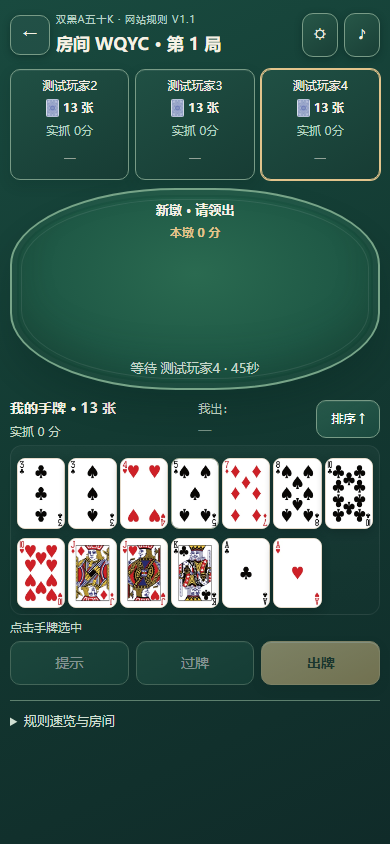
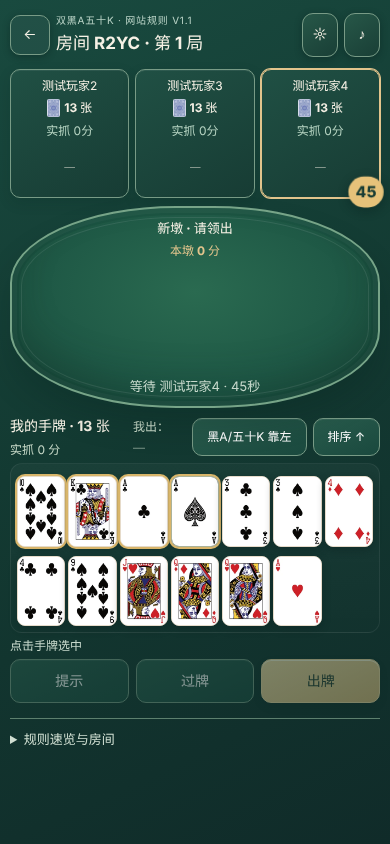
feat(ba): team early end, grouped hand sort, larger recent plays, turn timer
Claude-Session: https://claude.ai/code/session_01D4YgyroqgNAkz3QuETaoWS

diff --git a/apps/web/src/ba/BlackA.tsx b/apps/web/src/ba/BlackA.tsx
@@ -9,23 +9,25 @@ const suitSymbol:Record<string,string>={D:'♦',C:'♣',H:'♥',S:'♠'};
 const cardName=(id:string)=>id.slice(0,-1)+suitSymbol[id.slice(-1)];
 const order=(a:string,b:string)=>RANKS.indexOf(a.slice(0,-1) as typeof RANKS[number])-RANKS.indexOf(b.slice(0,-1) as typeof RANKS[number])||SUITS.indexOf(a.slice(-1) as typeof SUITS[number])-SUITS.indexOf(b.slice(-1) as typeof SUITS[number]);
 const typeName:Record<string,string>={SINGLE:'单牌',PAIR:'对子',STRAIGHT:'顺子',PAIR_RUN:'连对',TRIPLE_SINGLE:'三带一',TRIPLE_PAIR:'三带二',FOUR_TWO:'四带二',BLACK_A:'单黑A',MIXED_510K:'杂五十K',PURE_510K:'纯五十K',BOMB:'炸弹',DOUBLE_BLACK_A:'双黑A'};
+/** Black A and the 5/10/K point cards (the pieces of 五十K) can be pulled to the front of the hand. */
+const isSpecial=(id:string)=>id==='AS'||id==='AC'||['5','10','K'].includes(id.slice(0,-1));
+const savedGroup=()=>{try{return localStorage.getItem('ba-sort-group')!=='off'}catch{return true}};
+const sortHand=(list:string[],descending:boolean,group:boolean)=>{list.sort(order);if(descending)list.reverse();if(!group)return list;return [...list.filter(isSpecial),...list.filter(id=>!isSpecial(id))]};
 const savedTheme=()=>{try{return localStorage.getItem('ba-theme')==='light'?'light':'dark'}catch{return 'dark'}};
 function useBATheme(){const [theme,setTheme]=useState<'dark'|'light'>(savedTheme);const toggle=()=>setTheme(current=>{const next=current==='dark'?'light':'dark';try{localStorage.setItem('ba-theme',next)}catch{}return next});return {theme,toggle}}
-function Card({id,selected=false,drawn=false,onClick}: {id:string;selected?:boolean;drawn?:boolean;onClick?:()=>void}){return <button type="button" className={`ba-card ${selected?'ba-selected':''} ${drawn?'ba-card-drawn':''}`} aria-label={cardName(id)} aria-pressed={selected} onClick={onClick} disabled={!onClick}><img src={`/assets/black-a-510k/cards/${id}.webp`} alt="" draggable={false}/>{drawn&&<span className="ba-drawn-tag">抽到</span>}</button>}
+function Card({id,selected=false,drawn=false,special=false,onClick}: {id:string;selected?:boolean;drawn?:boolean;special?:boolean;onClick?:()=>void}){return <button type="button" className={`ba-card ${selected?'ba-selected':''} ${drawn?'ba-card-drawn':''} ${special?'ba-card-special':''}`} aria-label={cardName(id)} aria-pressed={selected} onClick={onClick} disabled={!onClick}><img src={`/assets/black-a-510k/cards/${id}.webp`} alt="" draggable={false}/>{drawn&&<span className="ba-drawn-tag">抽到</span>}</button>}
 function MiniCard({id}:{id:string}){return <span className="ba-mini-card" aria-label={cardName(id)}><img src={`/assets/black-a-510k/cards/${id}.webp`} alt={cardName(id)} draggable={false}/></span>}
 function RecentPlayBadge({play}:{play:{kind:'PLAY';cards:string[]}|{kind:'PASS'}|null|undefined}){
   if(!play)return <span className="ba-recent-empty">—</span>;
   if(play.kind==='PASS')return <span className="ba-pass-badge">过</span>;
   return <div className="ba-recent-cards">{play.cards.map(id=><MiniCard key={id} id={id}/>)}</div>;
 }
-function Hand({cards,drawnIds,selected,onToggle,descending}: {cards:string[];drawnIds?:string[]|null;selected:string[];onToggle?:(id:string)=>void;descending:boolean}){
+function Hand({cards,drawnIds,selected,onToggle,descending,group}: {cards:string[];drawnIds?:string[]|null;selected:string[];onToggle?:(id:string)=>void;descending:boolean;group:boolean}){
   const drawnSet=useMemo(()=>new Set(drawnIds??[]),[drawnIds]);
   const mainCards=useMemo(()=>{
     const list=drawnSet.size?cards.filter(id=>!drawnSet.has(id)):[...cards];
-    list.sort(order);
-    if(descending)list.reverse();
-    return list;
-  },[cards,drawnSet,descending]);
+    return sortHand(list,descending,group);
+  },[cards,drawnSet,descending,group]);
   const drawnCards=useMemo(()=>{
     if(!drawnIds?.length)return [];
     const list=cards.filter(id=>drawnSet.has(id));
@@ -34,7 +36,7 @@ function Hand({cards,drawnIds,selected,onToggle,descending}: {cards:string[];dra
     return list;
   },[cards,drawnIds,drawnSet,descending]);
   return <div className="ba-hand-wrap">
-    <div className="ba-hand" aria-label="我的手牌">{mainCards.map(id=><Card key={id} id={id} selected={selected.includes(id)} onClick={onToggle?()=>onToggle(id):undefined}/>)}</div>
+    <div className="ba-hand" aria-label="我的手牌">{mainCards.map(id=><Card key={id} id={id} special={group&&isSpecial(id)} selected={selected.includes(id)} onClick={onToggle?()=>onToggle(id):undefined}/>)}</div>
     {drawnCards.length>0&&<div className="ba-hand-drawn" aria-label="抽到的牌"><span className="ba-drawn-row-label">抽到 {drawnCards.length} 张</span><div className="ba-hand-drawn-cards">{drawnCards.map(id=><Card key={id} id={id} drawn selected={selected.includes(id)} onClick={onToggle?()=>onToggle(id):undefined}/>)}</div></div>}
   </div>;
 }
@@ -45,12 +47,14 @@ function Lobby({snap,claim,ready,configure,addBot,kick}: {snap:BASnapshot;claim:
   return <div className="ba-lobby"><div className="ba-lobby-head"><span>四人房间</span><strong>{snap.code}</strong><button onClick={()=>navigator.clipboard.writeText(location.href)}>复制邀请链接</button></div><p className="ba-note">本站房规 V1.1 · 四人各13张 · 隐藏阵营 · 分牌共100分</p><div className="ba-seats">{[0,1,2,3].map(i=>{const p=snap.players[i];return <div key={i} className="ba-seat-row"><span>{i+1}号位</span><strong>{p?.name??'等待加入'}{p?.bot?' · 人机':''}</strong><span>{p?p.bot?'待命':p.ready?'已准备':p.online?'在线':'离线':'空位'}</span>{isHost&&p&&p.id!==me?.id&&snap.roundId===0&&<KickButton name={p.name} onKick={()=>void run(kick(p.id))}/>}</div>})}</div>{isHost&&snap.roundId===0&&snap.players.length<4&&<button className="ba-add-bot" onClick={()=>void run(addBot())}>＋ 加入人机</button>}{self===null?<form onSubmit={e=>{e.preventDefault();void run(claim(name))}}><label>你的名字<input value={name} maxLength={16} onChange={e=>setName(e.target.value)} placeholder="输入昵称"/></label><button className="ba-primary" disabled={!name.trim()||snap.players.length>=4}>入座</button></form>:<button className="ba-primary" onClick={()=>void run(ready(!me!.ready))}>{me!.ready?'取消准备':'准备开局'}</button>}
   <section className="ba-rules"><h2>本房房规</h2><label>第一手<select disabled={!isHost||snap.roundId>0} value={snap.options.firstLead} onChange={e=>void run(configure({firstLead:e.target.value as BASnapshot['options']['firstLead']}))}><option value="CONTAINS_D3">必须包含 ♦3</option><option value="OWNER_ANY">♦3 持有者任意首出</option></select></label><label>独狼得分<select disabled={!isHost||snap.roundId>0} value={snap.options.soloScoreBasis} onChange={e=>void run(configure({soloScoreBasis:e.target.value as BASnapshot['options']['soloScoreBasis']}))}><option value="FINAL">最终分达到30</option><option value="BASE">基础分达到30</option></select></label><label>出牌倒计时<select disabled={!isHost||snap.roundId>0} value={snap.options.turnSeconds} onChange={e=>void run(configure({turnSeconds:Number(e.target.value) as BASnapshot['options']['turnSeconds']}))}>{[0,15,30,45,60].map(n=><option key={n} value={n}>{n?n+'秒':'关闭'}</option>)}</select></label><label><input type="checkbox" disabled={!isHost||snap.roundId>0} checked={snap.options.advanceExchange} onChange={e=>void run(configure({advanceExchange:e.target.checked}))}/> 连续局抽牌交换</label></section>{error&&<p role="alert" className="ba-error">{error}</p>}</div>
 }
-function Result({snap,ready}: {snap:BASnapshot;ready:(v:boolean)=>Promise<string|null>}){const [error,setError]=useState(''),[busy,setBusy]=useState(false);const result=snap.round?.result;if(!result)return null;const black=result.blackTeam,other=result.otherTeam;const teamScore=(ids:readonly number[])=>ids.reduce((n,id)=>n+result.ledger[id].finalScore,0);const loserIndex=result.winningTeam==='BLACK_A'?1:0;const shaved=result.shavedPenalty[loserIndex];return <section className="ba-result"><span className="ba-eyebrow">本局结算 · 第 {snap.roundId} 局</span><h2>{result.winningTeam==='BLACK_A'?'黑A队获胜':'普通队获胜'}</h2><div className="ba-team-scores"><div>黑A队<strong>{teamScore(black)}</strong></div><div>普通队<strong>{teamScore(other)}</strong></div></div><p>胜负依据：{result.reason==='BLACK_LEAD_30'?'黑A队领先至少30分':result.reason==='OTHER_HOLDS'?'黑A队未领先30分':result.reason==='SOLO_30'?'独狼达到30分且非末游':'独狼未满足获胜条件'}</p><div className="ba-ledger"><div className="ba-ledger-head"><span>玩家</span><span>实抓</span><span>余牌</span><span>转移</span><span>最终</span></div>{result.ledger.map((x,i)=><div key={i}><span>{snap.players[i]?.name} · {black.includes(i)?'黑A':'普通'} · 第{snap.round?.finishedOrder.indexOf(i)!+1}名</span><span>{x.capturedScore}</span><span>{x.remainderScore}</span><span>{x.transferIn-x.transferOut>0?'+':''}{x.transferIn-x.transferOut}</span><strong>{x.finalScore}</strong></div>)}</div><div className="ba-result-audit"><p>最后一墩归三游 {snap.players[snap.round?.finishedOrder[2]??2]?.name}；末游余牌归 {snap.players[result.remainderRecipient]?.name}。</p><p>败方实抓 {result.teamZeroCaptured[loserIndex]?"0 分":"有分"}；基础 {result.teamZeroBase[loserIndex]?"0 分":"有分"}。{shaved?"本局被剃光头，下局每笔抽 4 张。":snap.options.advanceExchange?"下局每笔抽 2 张。":"本房关闭跨局交换。"}</p><p>基础总分 100；头游收 30，末游缴 30。{black.length===1?`独狼门槛按${snap.options.soloScoreBasis==='BASE'?'基础分':'最终分'}计算。`:""}</p></div>{snap.self===null?<p className="ba-note">正在观战，等待四位玩家开启下一局。</p>:<button className="ba-result-next" disabled={busy||snap.players[snap.self]?.ready} onClick={async()=>{setBusy(true);const nextError=await ready(true);setBusy(false);setError(nextError??'')}}>{snap.players[snap.self]?.ready?"已准备，等待其他玩家":"准备下一局"}</button>}{error&&<p role="alert" className="ba-error">{error}</p>}</section>}
+function Result({snap,ready}: {snap:BASnapshot;ready:(v:boolean)=>Promise<string|null>}){const [error,setError]=useState(''),[busy,setBusy]=useState(false);const result=snap.round?.result;if(!result)return null;const black=result.blackTeam,other=result.otherTeam;const teamScore=(ids:readonly number[])=>ids.reduce((n,id)=>n+result.ledger[id].finalScore,0);const loserIndex=result.winningTeam==='BLACK_A'?1:0;const shaved=result.shavedPenalty[loserIndex];return <section className="ba-result"><span className="ba-eyebrow">本局结算 · 第 {snap.roundId} 局</span><h2>{result.winningTeam==='BLACK_A'?'黑A队获胜':'普通队获胜'}</h2><div className="ba-team-scores"><div>黑A队<strong>{teamScore(black)}</strong></div><div>普通队<strong>{teamScore(other)}</strong></div></div><p>胜负依据：{result.reason==='BLACK_LEAD_30'?'黑A队领先至少30分':result.reason==='OTHER_HOLDS'?'黑A队未领先30分':result.reason==='SOLO_30'?'独狼达到30分且非末游':'独狼未满足获胜条件'}</p><div className="ba-ledger"><div className="ba-ledger-head"><span>玩家</span><span>实抓</span><span>余牌</span><span>转移</span><span>最终</span></div>{result.ledger.map((x,i)=><div key={i}><span>{snap.players[i]?.name} · {black.includes(i)?'黑A':'普通'} · 第{snap.round?.finishedOrder.indexOf(i)!+1}名</span><span>{x.capturedScore}</span><span>{x.remainderScore}</span><span>{x.transferIn-x.transferOut>0?'+':''}{x.transferIn-x.transferOut}</span><strong>{x.finalScore}</strong></div>)}</div><div className="ba-result-audit">{result.earlyEnd?<p>同队两人都已出完，本局立即结束。最后一墩归 {snap.players[snap.round?.finishedOrder[1]??0]?.name}；{(result.remainderRecipients??[]).map(r=>`${snap.players[r.from]?.name}的余牌${r.to===r.from?'压得过，归自己':`压不过，归 ${snap.players[r.to]?.name}`}`).join('；')}。末游按剩余牌数判定（剩得多者为末游）。</p>:<p>最后一墩归三游 {snap.players[snap.round?.finishedOrder[2]??2]?.name}；末游余牌归 {snap.players[result.remainderRecipient]?.name}。</p>}<p>败方实抓 {result.teamZeroCaptured[loserIndex]?"0 分":"有分"}；基础 {result.teamZeroBase[loserIndex]?"0 分":"有分"}。{shaved?"本局被剃光头，下局每笔抽 4 张。":snap.options.advanceExchange?"下局每笔抽 2 张。":"本房关闭跨局交换。"}</p><p>基础总分 100；头游收 30，末游缴 30。{black.length===1?`独狼门槛按${snap.options.soloScoreBasis==='BASE'?'基础分':'最终分'}计算。`:""}</p></div>{snap.self===null?<p className="ba-note">正在观战，等待四位玩家开启下一局。</p>:<button className="ba-result-next" disabled={busy||snap.players[snap.self]?.ready} onClick={async()=>{setBusy(true);const nextError=await ready(true);setBusy(false);setError(nextError??'')}}>{snap.players[snap.self]?.ready?"已准备，等待其他玩家":"准备下一局"}</button>}{error&&<p role="alert" className="ba-error">{error}</p>}</section>}
 function GameRoom({code}:{code:string}){
   const {theme,toggle:toggleTheme}=useBATheme();
   const {snap,error,connected,claim,ready,configure,addBot,kick,action,leave}=useBARoom(code);
-  const [selected,setSelected]=useState<string[]>([]),[drawIndices,setDrawIndices]=useState<number[]>([]),[descending,setDescending]=useState(false),[busy,setBusy]=useState(false),[localError,setLocalError]=useState(''),[seconds,setSeconds]=useState(0),[hintIndex,setHintIndex]=useState(0),[soundOn,setSoundOn]=useState(soundEnabled());
+  const [selected,setSelected]=useState<string[]>([]),[drawIndices,setDrawIndices]=useState<number[]>([]),[descending,setDescending]=useState(false),[group,setGroup]=useState(savedGroup),[busy,setBusy]=useState(false),[localError,setLocalError]=useState(''),[seconds,setSeconds]=useState(0),[hintIndex,setHintIndex]=useState(0),[soundOn,setSoundOn]=useState(soundEnabled());
   const previous=useRef<BASnapshot|null>(null);
+  const toggleGroup=()=>setGroup(v=>{const next=!v;try{localStorage.setItem('ba-sort-group',next?'on':'off')}catch{}return next});
+  const sortButtons=<span className="ba-sort-buttons"><button onClick={toggleGroup} aria-pressed={group}>{group?'黑A/五十K 靠左':'按大小排'}</button><button onClick={()=>setDescending(v=>!v)}>排序 {descending?'↓':'↑'}</button></span>;
   useEffect(()=>{const unlock=()=>unlockSound();document.addEventListener('pointerdown',unlock);return()=>document.removeEventListener('pointerdown',unlock)},[]);
   useEffect(()=>{
     if(!snap)return;const old=previous.current;previous.current=snap;if(!old||old.code!==snap.code||!soundOn)return;
@@ -81,12 +85,13 @@ function GameRoom({code}:{code:string}){
   const exchangeLogs=snap?.exchangeLogs?.length?snap.exchangeLogs:exchange?.logs??[];
   if(!snap)return <main className="ba-app"><a href="/">← 游戏大厅</a><p>{error||'正在连接房间…'}</p></main>;
   return <main className={`ba-app ba-theme-${theme}`}><header className="ba-top"><a href="/" aria-label="返回游戏大厅">←</a><div><small>双黑A五十K · 网站规则 V1.1</small><strong>房间 {snap.code} · 第 {snap.roundId||1} 局</strong></div><button className="ba-theme-toggle" aria-label={theme==='dark'?'切换明亮配色':'切换深绿配色'} onClick={toggleTheme}>{theme==='dark'?'☼':'☾'}</button><button className="ba-sound-toggle" aria-label={soundOn?'关闭音效':'开启音效'} aria-pressed={soundOn} onClick={()=>{const next=!soundOn;setSoundOn(next);setSoundEnabled(next);unlockSound()}}>{soundOn?'♪':'♪̸'}</button><span>{connected?'● 在线':'○ 重连中'}</span></header>{snap.phase==='LOBBY'?<Lobby snap={snap} claim={claim} ready={ready} configure={configure} addBot={addBot} kick={kick}/>:snap.phase==='RESULT'?<Result snap={snap} ready={ready}/>:<>
-    <div className="ba-opponents">{snap.players.filter(p=>p.seat!==self).map(p=><div key={p.id} className={`ba-opponent ${round?.currentActor===p.seat?'ba-turn':''}`}><span>{p.name}</span><strong><img src="/assets/black-a-510k/cards/back.webp" alt=""/> {snap.phase==='EXCHANGE'?exchange?.handCounts[p.seat]:round?.handCounts[p.seat]} 张</strong><small>实抓 {round?.capturedScores[p.seat]??0}分</small>{snap.phase==='PLAY'&&round&&<div className="ba-opponent-recent"><RecentPlayBadge play={round.recentPlays?.[p.seat]}/></div>}</div>)}</div>
+    <div className="ba-opponents">{snap.players.filter(p=>p.seat!==self).map(p=><div key={p.id} className={`ba-opponent ${round?.currentActor===p.seat?'ba-turn':''}`}>{snap.phase==='PLAY'&&round?.currentActor===p.seat&&<span className={`ba-clock ${snap.deadline&&seconds<=10?'ba-clock-urgent':''}`} aria-label="正在出牌">{snap.deadline?seconds:'出牌中'}</span>}<span>{p.name}</span><strong><img src="/assets/black-a-510k/cards/back.webp" alt=""/> {snap.phase==='EXCHANGE'?exchange?.handCounts[p.seat]:round?.handCounts[p.seat]} 张</strong><small>实抓 {round?.capturedScores[p.seat]??0}分</small>{snap.phase==='PLAY'&&round&&<div className="ba-opponent-recent"><RecentPlayBadge play={round.recentPlays?.[p.seat]}/></div>}</div>)}</div>
     {snap.phase==='PLAY'&&round?<>
       {exchangeLogs.length>0&&round.trickId<=2&&<div className="ba-exchange-logs">{exchangeLogs.map((log,i)=><div key={i} className="ba-exchange-log-row"><span>{snap.players[log.winner]?.name} ↔ {snap.players[log.loser]?.name}：</span>{log.drawn?<><span>抽</span>{log.drawn.map(id=><MiniCard key={'d'+id} id={id}/>)}{log.returned&&log.returned.length>0&&<><span>还</span>{log.returned.map(id=><MiniCard key={'r'+id} id={id}/>)}</>}</>:<span>抽 {log.drawnCount} 张、还 {log.returnedCount} 张</span>}</div>)}</div>}
       <div className="ba-table"><div className="ba-table-label">{round.lastPlay?`${snap.players[round.lastPlay.actor]?.name} · ${typeName[classify(round.lastPlay.cards)?.type??'']??'出牌'}`:'新墩 · 请领出'}<span>本墩 {round.tableScore} 分</span></div><div className="ba-table-cards">{(round.lastPlay?.cards??[]).map(id=><Card key={id} id={id}/>)}</div><div className="ba-table-foot">{canPlay?'轮到你出牌':`等待 ${snap.players[round.currentActor??0]?.name??'结算'}`}{snap.deadline?` · ${seconds}秒`:''}</div></div>
-      <div className="ba-self"><div><strong>我的手牌 · {hand?.length??0} 张</strong><span>实抓 {self===null?0:round.capturedScores[self]} 分</span></div>{self!==null&&<div className="ba-self-recent"><span>我出：</span><RecentPlayBadge play={round.recentPlays?.[self]}/></div>}<button onClick={()=>setDescending(v=>!v)}>排序 {descending?'↓':'↑'}</button></div>
-      <Hand cards={hand??[]} selected={selected} onToggle={toggle} descending={descending}/>
+      <div className="ba-self"><div><strong>我的手牌 · {hand?.length??0} 张</strong><span>实抓 {self===null?0:round.capturedScores[self]} 分</span></div>{self!==null&&<div className="ba-self-recent"><span>我出：</span><RecentPlayBadge play={round.recentPlays?.[self]}/></div>}{sortButtons}</div>
+      {canPlay&&<div className={`ba-your-turn ${snap.deadline&&seconds<=10?'ba-clock-urgent':''}`} role="status">轮到你出牌{snap.deadline?<strong>{seconds}</strong>:null}</div>}
+      <Hand cards={hand??[]} selected={selected} onToggle={toggle} descending={descending} group={group}/>
       <div className="ba-selection">{selected.length?`${selected.length}张 · ${play?typeName[play.type]:'非法组合'} · ${legal?'可出':mustD3&&!selected.includes('3D')?'首手需包含♦3':'不可压当前牌'}`:'点击手牌选中'}</div>
       <div className="ba-actions"><button disabled={!canPlay||busy||!hints.length} onClick={()=>{const next=hints[hintIndex%hints.length];setSelected(next);setHintIndex(i=>i+1)}}>提示</button><button disabled={!canPlay||busy||!round.lastPlay} onClick={()=>void submit({kind:'PASS'})}>过牌</button><button className="ba-primary" disabled={!canPlay||busy||!legal} onClick={()=>void submit({kind:'PLAY',cards:selected})}>{busy?'提交中…':'出牌'}</button></div>
     </>:exchange?<>
@@ -100,16 +105,16 @@ function GameRoom({code}:{code:string}){
           <div className="ba-actions"><button onClick={()=>setDrawIndices([])}>取消选择</button><button className="ba-primary" disabled={busy||drawIndices.length!==exchange.drawCount} onClick={()=>void submit({kind:'DRAW',indices:drawIndices})}>{busy?'抽取中…':'确认抽牌'}</button></div>
         </>}
         {self!==exchange.pair?.winner&&<div className="ba-selection">等待对方抽牌 · 剩余 {seconds} 秒</div>}
-        <div className="ba-self"><strong>我的手牌 · {hand?.length??0} 张</strong><button onClick={()=>setDescending(v=>!v)}>排序 {descending?'↓':'↑'}</button></div>
-        <Hand cards={hand??[]} selected={[]} descending={descending}/>
+        <div className="ba-self"><strong>我的手牌 · {hand?.length??0} 张</strong>{sortButtons}</div>
+        <Hand cards={hand??[]} selected={[]} descending={descending} group={group}/>
       </>:<>
         <p className="ba-note">{self===exchange.pair?.winner?'请从手牌中选择准确数量归还，下方高亮为刚抽到的牌，可原样归还。':self===exchange.pair?.loser?'对方已完成抽牌，上方记录可查看被抽走的牌，等待对方归还。':'正在进行私密还牌，你只能看到公开进度。'}</p>
-        <div className="ba-self"><strong>我的手牌 · {hand?.length??0} 张</strong><button onClick={()=>setDescending(v=>!v)}>排序 {descending?'↓':'↑'}</button></div>
-        <Hand cards={hand??[]} drawnIds={self===exchange.pair?.winner?exchange.drawnIds:null} selected={self===exchange.pair?.winner?selected:[]} onToggle={self===exchange.pair?.winner?toggle:undefined} descending={descending}/>
+        <div className="ba-self"><strong>我的手牌 · {hand?.length??0} 张</strong>{sortButtons}</div>
+        <Hand cards={hand??[]} drawnIds={self===exchange.pair?.winner?exchange.drawnIds:null} selected={self===exchange.pair?.winner?selected:[]} onToggle={self===exchange.pair?.winner?toggle:undefined} descending={descending} group={group}/>
         <div className="ba-selection">已选择 {selected.length}/{exchange.returnCount??exchange.pair?.count??0} 张 · 剩余 {seconds} 秒</div>
         <div className="ba-actions"><button onClick={()=>setSelected([])}>取消选择</button><button className="ba-primary" disabled={self!==exchange.pair?.winner||busy||selected.length!==exchange.returnCount} onClick={()=>void submit({kind:'RETURN',cards:selected})}>确认归还</button></div>
       </>}
     </>:null}</>}
-  {(error||localError)&&<p role="alert" className="ba-error">{localError||error}</p>}<details className="ba-guide"><summary>规则速览与房间</summary><p>♦3持有者首出；5为5分，10和K各10分。普通牌需同型同张数压牌；单黑A、杂五十K、纯五十K、炸弹、双黑A依次更大。第三人出完立即结算，末游向头游缴30分。黑A队须领先30分；独狼须得30分且不能末游。</p>{self!==null&&<button className="ba-leave" onClick={()=>void leave()}>离开房间{snap.phase==='PLAY'?'（本局座位保留并托管）':''}</button>}</details></main>;
+  {(error||localError)&&<p role="alert" className="ba-error">{localError||error}</p>}<details className="ba-guide"><summary>规则速览与房间</summary><p>♦3持有者首出；5为5分，10和K各10分。普通牌需同型同张数压牌；单黑A、杂五十K、纯五十K、炸弹、双黑A依次更大。第三人出完立即结算；同队两人都先出完也立即结算，没出完的人压不过最后一手牌时，手中分牌归对方队。末游向头游缴30分。黑A队须领先30分；独狼须得30分且不能末游。</p>{self!==null&&<button className="ba-leave" onClick={()=>void leave()}>离开房间{snap.phase==='PLAY'?'（本局座位保留并托管）':''}</button>}</details></main>;
 }
 export function BlackA(){const code=new URLSearchParams(location.search).get('room')?.toUpperCase()??'';return code?<GameRoom code={code}/>:<RoomHome/>}

diff --git a/packages/black-a-510k/test/round.test.ts b/packages/black-a-510k/test/round.test.ts
@@ -73,18 +73,45 @@ describe('V1.1 turn state machine',()=>{
       {kind:'PASS',trickId:1},
     ]);
   });
-  it('T22: keeps playing when two teammates finish first and settles immediately when third finishes',()=>{
+  // House rule 2026-11-25: a two-player team that finishes both members ends the round at once.
+  function endgame(hands:string[][],finished:number[],owners:number[],actor:number,lastPlay:{actor:number;cards:string[]}){
     const full=createDeck().map(c=>c.id);
     const s=startRound([full.slice(0,13),full.slice(13,26),full.slice(26,39),full.slice(39,52)]);
-    s.hands=[[],['5D'],[],['KH','2S']];
-    s.capturedPiles=[full.filter(id=>!['5D','KH','2S','4S'].includes(id)),[],[],[]];
-    s.tableCards=['4S'];s.lastPlay={actor:2,cards:['4S']};s.finishedOrder=[0,2];
-    s.blackAOwners=[0,2];s.currentActor=1;s.firstLeadPending=false;s.trickId=9;
-    expect(s.phase).toBe('PLAY');
-    const settled=applyAction(s,{kind:'PLAY',actor:1,cards:['5D']});
+    const inPlay=new Set([...hands.flat(),...lastPlay.cards]);
+    s.hands=hands;s.capturedPiles=[full.filter(id=>!inPlay.has(id)),[],[],[]];
+    s.tableCards=[...lastPlay.cards];s.lastPlay=lastPlay;s.finishedOrder=finished;
+    s.blackAOwners=owners;s.currentActor=actor;s.firstLeadPending=false;s.trickId=9;
+    s.pendingResponders=[0,1,2,3].filter(id=>id!==lastPlay.actor&&hands[id].length>0);
+    return s;
+  }
+  it('T22: ends immediately when both teammates finish; unbeatable leftovers go to the last finisher',()=>{
+    // seat 0 (black) already out; seat 2 (black) plays its last card 2S, opponents hold 5D / KH 10C which cannot beat it.
+    const s=endgame([[],['5D','4C'],['2S'],['KH','10C']],[0],[0,2],2,{actor:1,cards:['4D']});
+    const settled=applyAction(s,{kind:'PLAY',actor:2,cards:['2S']});
     expect(settled.phase).toBe('RESULT');
-    expect(settled.finishedOrder).toEqual([0,2,1,3]);
-    expect(settled.result?.ledger[1].capturedScore).toBe(5);
-    expect(settled.result?.remainderRecipient).toBe(3);
+    expect(settled.result?.earlyEnd).toBe(true);
+    expect(settled.finishedOrder).toEqual([0,2,3,1]); // tie on cards left → turn order after seat 2
+    expect(settled.result?.remainderRecipients).toEqual([{from:1,to:2},{from:3,to:2}]);
+    expect(settled.result?.ledger[2].remainderScore).toBe(25);
+    expect(settled.result?.ledger[1].transferOut).toBe(30);
+  });
+  it('T22: an unfinished player who can beat the terminal play keeps their own point cards',()=>{
+    const s=endgame([[],['5D','4C'],['QS'],['KH','10C']],[0],[0,2],2,{actor:1,cards:['4D']});
+    const settled=applyAction(s,{kind:'PLAY',actor:2,cards:['QS']});
+    expect(settled.result?.remainderRecipients).toEqual([{from:1,to:2},{from:3,to:3}]);
+    expect(settled.result?.ledger[3].remainderScore).toBe(20);
+    expect(settled.result?.ledger.reduce((n,l)=>n+l.finalScore,0)).toBe(100);
+  });
+  it('T22: keeps playing when the first two finishers are on different teams',()=>{
+    const s=endgame([[],['5D','4C'],['2S'],['KH','10C']],[1],[0,2],2,{actor:3,cards:['4D']});
+    s.hands[0]=['3C'];s.capturedPiles[0]=s.capturedPiles[0].filter(id=>id!=='3C');s.finishedOrder=[1];s.hands[1]=[];
+    s.capturedPiles[0].push('5D','4C');s.pendingResponders=[0,2];
+    const next=applyAction(s,{kind:'PLAY',actor:2,cards:['2S']});
+    expect(next.phase).toBe('PLAY');
+  });
+  it('T22: a solo double-black-A player finishing first does not end the round',()=>{
+    const s=endgame([['2S'],['5D'],['4C'],['KH','10C']],[],[0],0,{actor:3,cards:['4D']});
+    const next=applyAction(s,{kind:'PLAY',actor:0,cards:['2S']});
+    expect(next.phase).toBe('PLAY');
   });
 });

diff --git a/packages/black-a-510k/src/settlement.ts b/packages/black-a-510k/src/settlement.ts
@@ -16,6 +16,10 @@ export interface Ledger {
 export interface Settlement {
   ledger: readonly Ledger[];
   remainderRecipient: number;
+  /** Where each unfinished player's leftover point cards went (one entry normally, two on a team early end). */
+  remainderRecipients: readonly {from:number;to:number}[];
+  /** True when both members of a 2-player team finished first and the round ended immediately. */
+  earlyEnd: boolean;
   blackTeam: readonly number[];
   otherTeam: readonly number[];
   winningTeam: 'BLACK_A'|'OTHER';
@@ -37,16 +41,22 @@ export function settleRound(input: SettlementInput): Settlement {
       input.blackAOwners.some(id=>id<0 || id>3)) throw new Error('invalid settlement seats');
   const all = [...input.hands.flat(),...input.capturedPiles.flat(),...input.tableCards];
   if (all.length !== 52 || new Set(all).size !== 52 || all.some(id=>!points.has(id as CardId))) throw new Error('expected 52 unique physical cards');
-  const [first,,third,tail] = input.finishedOrder;
-  if (input.hands.some((hand,id)=>id !== tail && hand.length !== 0) || input.hands[tail].length === 0 ||
+  const first = input.finishedOrder[0], tail = input.finishedOrder[3];
+  const unfinished = [0,1,2,3].filter(id=>input.hands[id].length>0);
+  const earlyEnd = unfinished.length===2;
+  if (!(unfinished.length===1 || earlyEnd) || !unfinished.includes(tail) ||
+      (earlyEnd && !unfinished.includes(input.finishedOrder[2])) ||
       input.tableCards.length === 0 || input.terminalPlay.some(id=>!input.tableCards.includes(id))) throw new Error('invalid terminal state');
+  // The player who made the terminal play (last finisher) takes the unresolved terminal trick.
+  const lastFinisher = input.finishedOrder[3-unfinished.length];
   const captured = input.capturedPiles.map(pile=>[...pile]);
-  captured[third].push(...input.tableCards);
-  // The entire unresolved terminal trick belongs to the third finisher.
-  const remainderRecipient = hasBeatingPlay(input.hands[tail],input.terminalPlay,{},DEFAULT_RULES) ? tail : third;
+  captured[lastFinisher].push(...input.tableCards);
+  // Each unfinished player keeps their leftover point cards only if they could beat the terminal play.
+  const remainderRecipients = unfinished.map(from=>({from,to:hasBeatingPlay(input.hands[from],input.terminalPlay,{},DEFAULT_RULES) ? from : lastFinisher}));
+  const remainderRecipient = remainderRecipients.find(r=>r.from===tail)!.to;
   const ledger: Ledger[] = captured.map((pile,id)=>{
     const capturedScore=sum(pile);
-    const remainderScore=id===remainderRecipient ? sum(input.hands[tail]) : 0;
+    const remainderScore=remainderRecipients.filter(r=>r.to===id).reduce((n,r)=>n+sum(input.hands[r.from]),0);
     const transferIn=id===first ? 30 : 0;
     const transferOut=id===tail ? 30 : 0;
     const baseScore=capturedScore+remainderScore;
@@ -62,7 +72,7 @@ export function settleRound(input: SettlementInput): Settlement {
   const teamZeroCaptured=[teamSum(blackTeam,ledger,'capturedScore')===0,teamSum(otherTeam,ledger,'capturedScore')===0] as const;
   const teamZeroBase=[teamSum(blackTeam,ledger,'baseScore')===0,teamSum(otherTeam,ledger,'baseScore')===0] as const;
   return {
-    ledger,remainderRecipient,blackTeam,otherTeam,winningTeam,
+    ledger,remainderRecipient,remainderRecipients,earlyEnd,blackTeam,otherTeam,winningTeam,
     winnerIds:blackWins?blackTeam:otherTeam,loserIds:blackWins?otherTeam:blackTeam,
     teamZeroCaptured,teamZeroBase,shavedPenalty:[!blackWins && teamZeroBase[0],blackWins && teamZeroBase[1]],
     reason:solo ? blackWins?'SOLO_30':'SOLO_FAILED' : blackWins?'BLACK_LEAD_30':'OTHER_HOLDS',

diff --git a/apps/web/src/update-notices.ts b/apps/web/src/update-notices.ts
@@ -1,6 +1,9 @@
 /** 大厅更新公告：每次发布在顶部追加，使用玩家能看懂的简短说明。 */
 /** dev:true 的条目只给开发者看（只出现在网站状态页），大厅和游戏里的公告不显示 */
 export const UPDATE_NOTICES: Array<{ id: string; date: string; game: string; title: string; text: string; dev?: boolean }> = [
+  {id:"2026-11-26-ba-team-end",date:"2026-11-26",game:"双黑A五十K",title:"双黑A五十K：同队两人出完立即结算",text:"同一队两人都出完牌，本局立刻结束。没出完的人如果压不过对方最后出的那手牌，手里的分牌（5、10、K）归对方队；压得过就归自己。没出完的两人中剩牌多的算末游。"},
+  {id:"2026-11-26-ba-timer",date:"2026-11-26",game:"双黑A五十K",title:"双黑A五十K：最近出牌放大、读秒更醒目",text:"每人面前最近出的牌放大了。轮到谁出牌，他的座位旁会显示倒计时，最后 10 秒变红；轮到你时手牌上方会出现提示。"},
+  {id:"2026-11-26-ba-sort",date:"2026-11-26",game:"双黑A五十K",title:"双黑A五十K：黑A和5、10、K可以靠左放",text:"手牌默认把黑A和5、10、K放在最左边并加金边，其余牌按大小排；点「黑A/五十K 靠左」可切回纯按大小排。"},
   {id:"2026-11-25-ba-draw",date:"2026-11-25",game:"双黑A五十K",title:"双黑A五十K：抽牌改为手动选背面牌，限时 30 秒",text:"换牌阶段抽牌改为自己点选对方打乱的背面牌，限时 30 秒，超时自动随机抽取。抽到和还回的牌只有交换双方能看到。"},
   {id:"2026-11-25-ba-recent",date:"2026-11-25",game:"双黑A五十K",title:"双黑A五十K：每人面前显示最近出的牌",text:"每位玩家面前会显示他最近一次出的牌或「过」，方便大家判断谁是队友。"},
   {id:"2026-11-25-ba-hand",date:"2026-11-25",game:"双黑A五十K",title:"双黑A五十K：手牌全部一屏显示",text:"手牌改为两排显示，不用左右滑动就能看到全部手牌；抽到的牌单独放在下面一行。"},

diff --git a/apps/web/src/ba/ba.css b/apps/web/src/ba/ba.css
@@ -85,3 +85,20 @@
 @media(min-width:650px){
   .ba-hand,.ba-facedown-grid,.ba-hand-drawn-cards{gap:10px 6px;padding:14px 12px 8px}
 }
+
+/* 2026-11-25 feedback: grouped hand, larger recent plays, prominent turn timer */
+.ba-sort-buttons{display:flex;gap:6px}.ba-sort-buttons button{white-space:nowrap}
+.ba-card-special{box-shadow:0 0 0 2px #d8b56a,0 2px 6px #071f1b55}
+.ba-opponent{position:relative}
+.ba-opponent-recent{min-height:46px}
+.ba-opponent-recent .ba-recent-cards{flex-wrap:wrap;gap:0;row-gap:3px;padding-left:15px}
+.ba-opponent-recent .ba-mini-card,.ba-self-recent .ba-mini-card{width:31px;height:44px;margin-left:-15px;border-radius:4px}
+.ba-self-recent .ba-recent-cards{display:flex;padding-left:15px}
+.ba-opponent-recent .ba-pass-badge{font-size:14px;padding:4px 12px}
+.ba-clock{position:absolute;bottom:-10px;right:-4px;z-index:2;min-width:30px;height:30px;padding:0 7px;border-radius:999px;display:flex;align-items:center;justify-content:center;font-size:15px;font-weight:800;background:#e6c27a;color:#173c34;box-shadow:0 3px 10px #071f1b66;animation:ba-clock-pulse 1.2s ease-in-out infinite}
+.ba-clock.ba-clock-urgent{background:#d9574a;color:#fff}
+.ba-your-turn{display:flex;align-items:center;justify-content:center;gap:10px;margin:6px 0;padding:8px 12px;border-radius:10px;font-weight:800;font-size:16px;background:linear-gradient(150deg,#e9c97f,#d2a75a);color:#173c34;box-shadow:0 4px 14px #071f1b55}
+.ba-your-turn strong{font-size:22px;min-width:28px;text-align:center}
+.ba-your-turn.ba-clock-urgent{background:linear-gradient(150deg,#e46a5b,#c8473b);color:#fff;animation:ba-clock-pulse .8s ease-in-out infinite}
+@keyframes ba-clock-pulse{50%{transform:scale(1.06)}}
+@media (prefers-reduced-motion:reduce){.ba-clock,.ba-your-turn{animation:none}}

diff --git a/packages/black-a-510k/src/round.ts b/packages/black-a-510k/src/round.ts
@@ -39,9 +39,14 @@ export function applyAction(state:RoundState, action:Action):RoundState {
     s.lastPlay={actor,cards:[...action.cards]}; s.firstLeadPending=false;
     s.recentPlays[actor]={kind:'PLAY',cards:[...action.cards],trickId:s.trickId};
     if(s.hands[actor].length===0 && !s.finishedOrder.includes(actor))s.finishedOrder.push(actor);
-    if(s.finishedOrder.length===3){
-      const tail=[0,1,2,3].find(id=>!s.finishedOrder.includes(id))!;
-      s.finishedOrder.push(tail);
+    // House rule (2026-11-25): when both members of a two-player team have finished, the round ends at once.
+    const teamDone=s.blackAOwners.length===2 && s.finishedOrder.length===2 &&
+      s.blackAOwners.includes(s.finishedOrder[0])===s.blackAOwners.includes(s.finishedOrder[1]);
+    if(s.finishedOrder.length===3 || teamDone){
+      // Unfinished players are ranked by cards left (fewer = better); ties go in turn order after the last finisher.
+      const rest=[1,2,3].map(k=>(actor+k)%4).filter(id=>!s.finishedOrder.includes(id))
+        .sort((a,b)=>s.hands[a].length-s.hands[b].length);
+      s.finishedOrder.push(...rest);
       s.result=settleRound({hands:s.hands,capturedPiles:s.capturedPiles,tableCards:s.tableCards,terminalPlay:action.cards,finishedOrder:s.finishedOrder as [number,number,number,number],blackAOwners:s.blackAOwners,soloScoreBasis:s.options.soloScoreBasis});
       s.phase='RESULT';s.currentActor=null;s.pendingResponders=[];
     }else{
